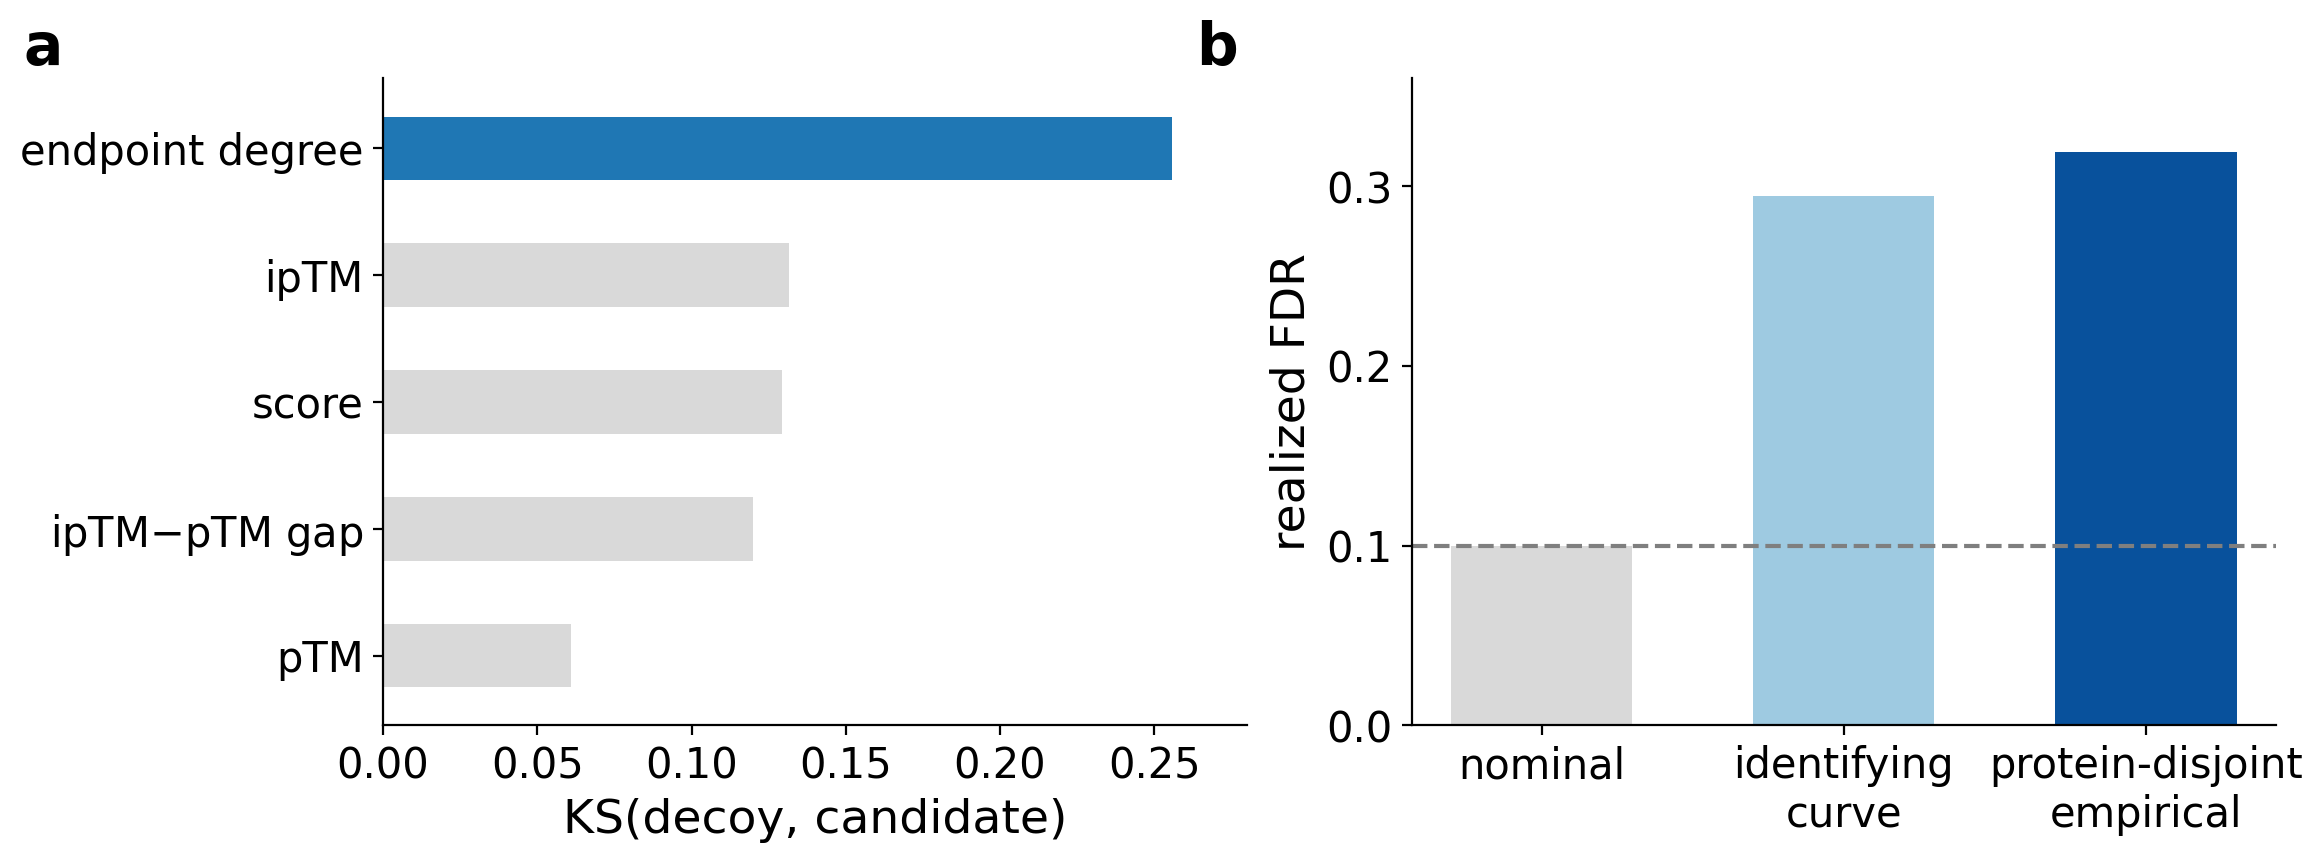
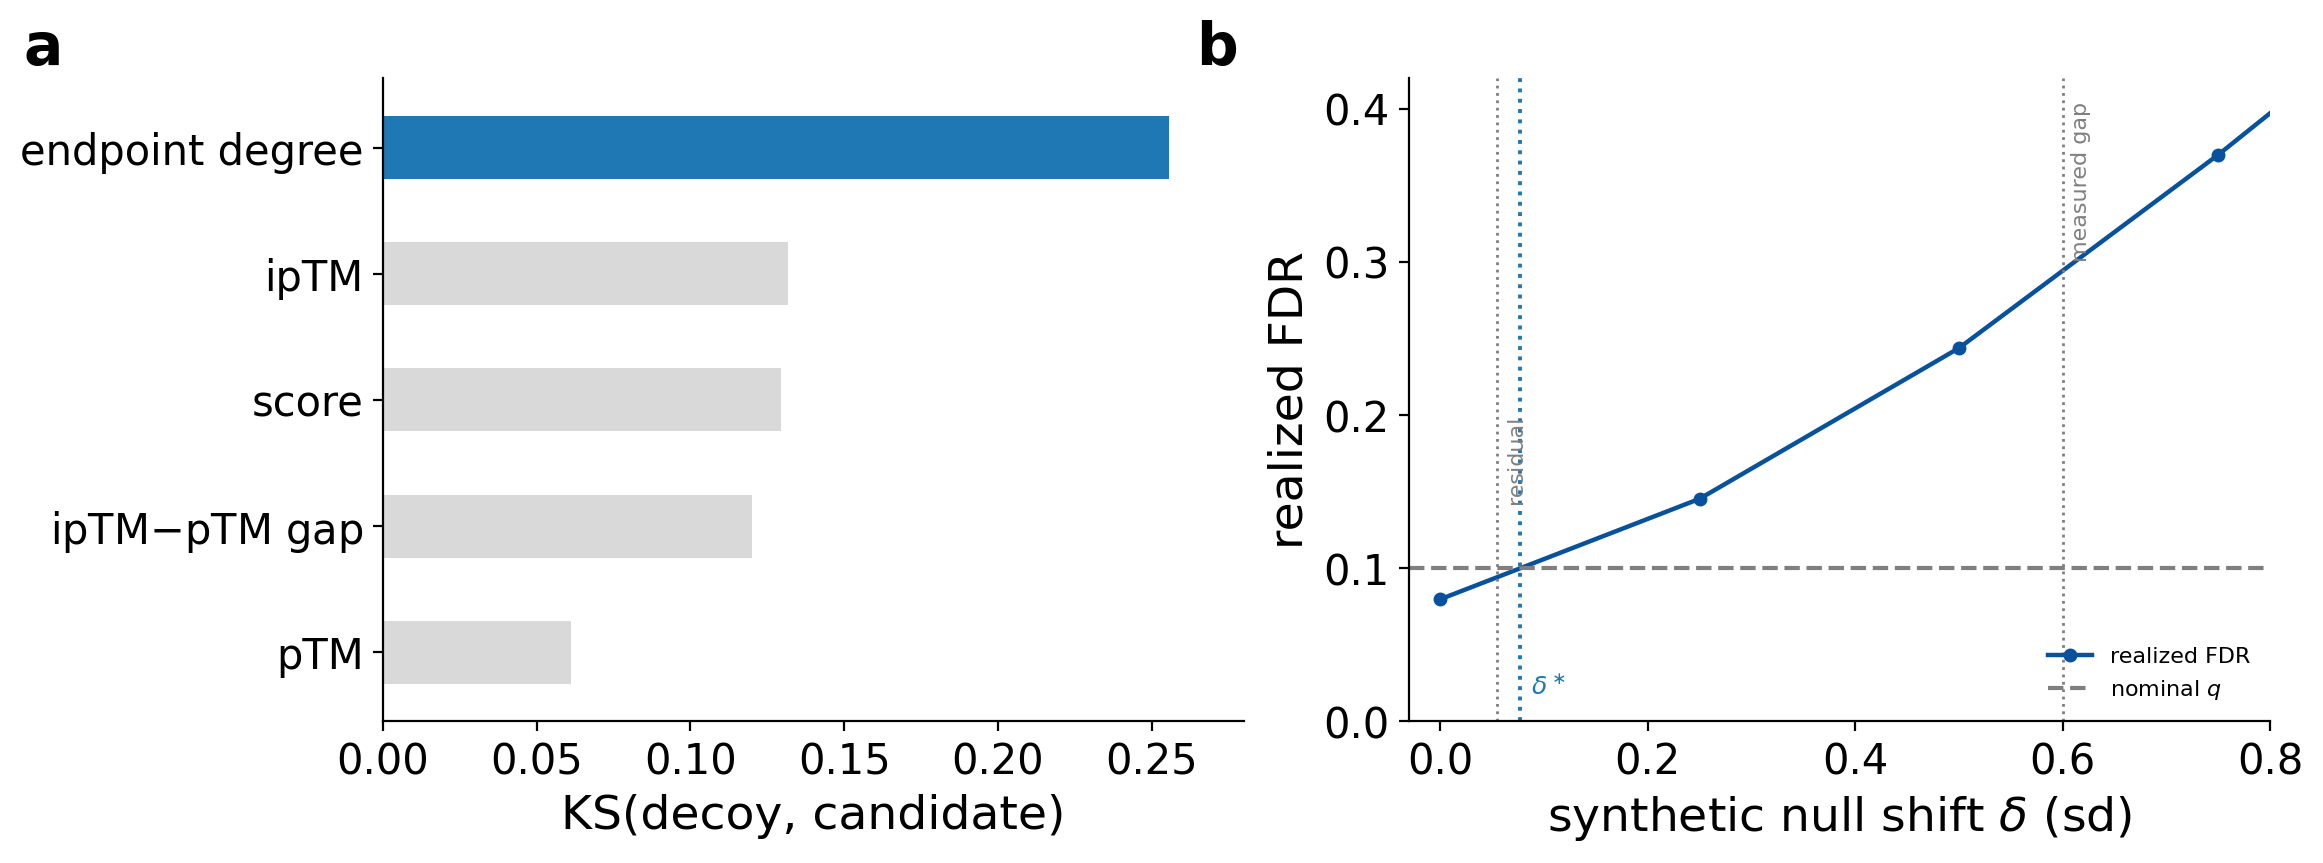
figs: plot the sweep the caption describes
Panel (b) of the two-panel shift figure drew three bars -- nominal, interpolated,
protein-disjoint -- while its caption called it "realized FDR against the nominal
q (dashed), over 400 splits" and the surrounding text said "interpolating that
curve". Two of the three bars restated numbers already in the prose, and the
crossing the text argues about was not shown at all.

It now plots the identifying experiment's delta -> realized-FDR sweep with the
crossing marked, alongside the residual shift left once the audited tier is
removed and the full calibration-to-candidate gap. That is the comparison the
section makes, and it is now visible rather than asserted.

The near-identical block in fig2_guarantee belongs to the other two papers and is
deliberately untouched.

diff --git a/scripts/make_paper_figs.py b/scripts/make_paper_figs.py
@@ -263,13 +263,28 @@ def fig5_shift_two_panel():
     ax1.set_ylim(-0.55, len(labels) - 0.45)
     ax1.set_xlabel("KS(decoy, candidate)")
 
-    pop = sen["realized_fdr_population"]
-    names = ["nominal", "identifying\ncurve", "protein-disjoint\nempirical"]
-    vals = [float(q), pop["identifying_curve_fdr"][q], pop["empirical_node_disjoint_fdr"][q]]
-    ax2.bar(names, vals, color=[PALE, LIGHT, DARK], width=0.6)
-    ax2.axhline(float(q), ls="--", color=GREY, lw=1.5)
+    # The identifying sweep itself, so the crossing the text interpolates is visible.
+    rows = load("identifying_experiment.json")["rows"]
+    d = [r["delta"] for r in rows]
+    f = [r["fdr@" + q] for r in rows]
+    ax2.plot(d, f, marker="o", ms=4, color=DARK, lw=1.6, label="realized FDR")
+    ax2.axhline(float(q), ls="--", color=GREY, lw=1.5, label="nominal $q$")
+
+    cross = next((d[i - 1] + (float(q) - f[i - 1]) * (d[i] - d[i - 1]) / (f[i] - f[i - 1])
+                  for i in range(1, len(d)) if f[i] > float(q)), None)
+    if cross is not None:
+        ax2.axvline(cross, ls=":", color=BLUE, lw=1.4)
+        ax2.annotate(r"$\delta^\ast$", xy=(cross, 0.015), xytext=(4, 0),
+                     textcoords="offset points", color=BLUE, fontsize=9, va="bottom")
+    for x, lab, yy in ((0.055, "residual", 0.20), (0.600, "measured gap", 0.405)):
+        ax2.axvline(x, ls=":", color=GREY, lw=1.0)
+        ax2.annotate(lab, xy=(x, yy), xytext=(3, 0), textcoords="offset points",
+                     color=GREY, fontsize=8, rotation=90, va="top")
+    ax2.set_xlabel(r"synthetic null shift $\delta$ (sd)")
     ax2.set_ylabel("realized FDR")
-    ax2.set_ylim(0, 0.36)
+    ax2.set_xlim(-0.03, 0.80)
+    ax2.set_ylim(0, 0.42)
+    ax2.legend(frameon=False, fontsize=8, loc="lower right")
 
     panel_tags(fig, 2)
     save(fig, "fig5_shift_two_panel")
